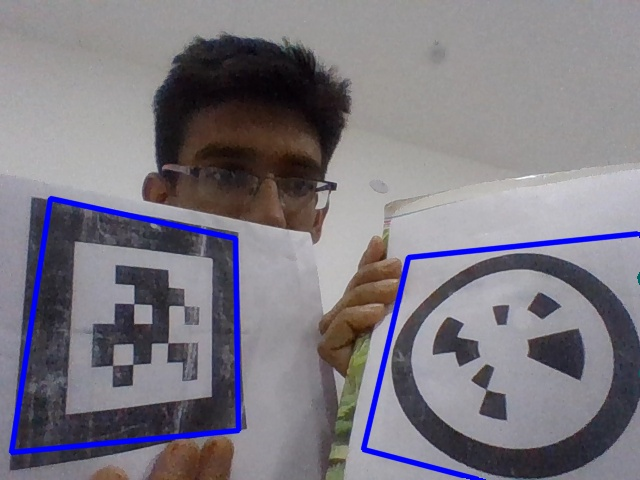
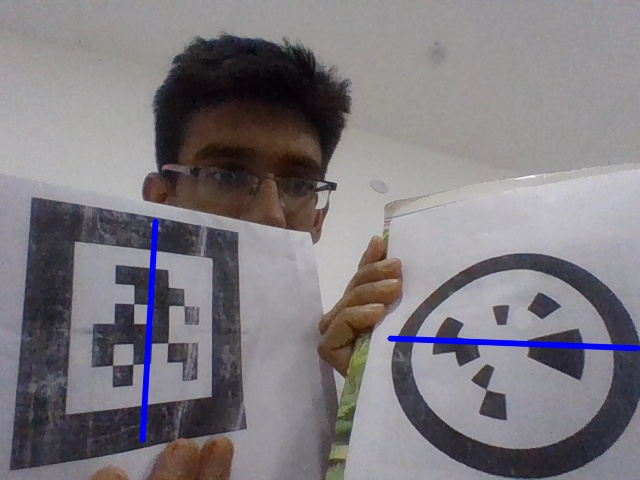
Printing 2 lines to play ping pong on each video frame

Changed region(s): [[0.0, 0.4062, 0.4062, 0.9688], [0.5625, 0.4688, 1.0, 1.0]]

diff --git a/augmented_reality/src/ar3.py b/augmented_reality/src/ar3.py
@@ -42,15 +42,15 @@ def main():
     # Load 3D model from OBJ file
     obj = OBJ(os.path.join(dir_name, 'models/fox.obj'), swapyz=True)
     # init video capture
-    # cap = cv2.VideoCapture(0)
-    frame = cv2.imread('test.jpg')
+    cap = cv2.VideoCapture(0)
+    #frame = cv2.imread('test.jpg')
     # h = np.eye(3)
-    if True:
-    #     # read the current frame
-    #     ret, frame = cap.read()
-    #     if not ret:
-    #         print("Unable to capture video")
-    #         return
+    while True:
+        # read the current frame
+        ret, frame = cap.read()
+        if not ret:
+            print("Unable to capture video")
+            return
         # find and draw the keypoints of the frame
         kp_frame, des_frame = orb.detectAndCompute(frame, None)
         # match frame descriptors with model descriptors
@@ -83,49 +83,32 @@ def main():
         # compute Homography
         other_homography, mask = cv2.findHomography(src_pts, dst_pts, cv2.RANSAC, 5.0)
 
+        if homography is not None and other_homography is not None and good:
         # Draw a rectangle and get centroid that marks the found models in the frame
-        h, w = model.shape
-        pts = np.float32([[0, 0], [0, h - 1], [w - 1, h - 1], [w - 1, 0]]).reshape(-1, 1, 2)
-        dst = cv2.perspectiveTransform(pts, homography)
-        # centroid = np.asarray([(w-1)/2.0, (h-1)/2.0]).reshape(-1,1,2)
-        # centroid1 = cv2.perspectiveTransform(centroid, homography)
-        frame = cv2.polylines(frame, [np.int32(dst)], True, 255, 3, cv2.LINE_AA)
-        h, w = other_model.shape
-        pts = np.float32([[0, 0], [0, h - 1], [w - 1, h - 1], [w - 1, 0]]).reshape(-1, 1, 2)
-        dst = cv2.perspectiveTransform(pts, other_homography)
-        # centroid = np.asarray([(w-1)/2.0, (h-1)/2.0]).reshape(-1,1,2)
-        # centroid2 = cv2.perspectiveTransform(centroid, other_homography)
-        frame = cv2.polylines(frame, [np.int32(dst)], True, 255, 3, cv2.LINE_AA)
+	        h, w = model.shape
+	        pts = np.float32([[(w-1)/2, 0], [(w-1)/2, h - 1]]).reshape(-1, 1, 2)
+	        dst = cv2.perspectiveTransform(pts, homography)							## first marker 2 points to define a ling
+	        frame = cv2.polylines(frame, [np.int32(dst)], True, 255, 3, cv2.LINE_AA)
+	        h, w = other_model.shape
+	        pts = np.float32([[(w-1)/2, 0], [(w-1)/2, h - 1]]).reshape(-1, 1, 2)
+	        dst = cv2.perspectiveTransform(pts, other_homography)					## second marker 2 points to define a ling
+	        frame = cv2.polylines(frame, [np.int32(dst)], True, 255, 3, cv2.LINE_AA)
+	    ########### ADD CODE FOR DISPLAYING BALL AND LOGIC OF GAME
+        #     # obtain 3D projection matrix from homography matrix and camera parameters
+        #     projection = projection_matrix(camera_parameters, homography)
+        #     other_projection = projection_matrix(camera_parameters, other_homography)
+        #     # project cube or model
+        #     render(frame, obj,projection, other_projection, model, other_model, False)
 
-        # project corners into frame
-        # dst = cv2.perspectiveTransform(centroid, homography)
-        # if good:
-        #     print(centroid1, centroid2)
-        # connect them with lines
-        # if args.rectangle:
-        #     frame = cv2.polylines(frame, [np.int32(dst)], True, 255, 3, cv2.LINE_AA)
-        # if a valid homography matrix was found render cube on model plane
-        if homography is not None and good:
-            # try:
-            # print(homography)
-            # obtain 3D projection matrix from homography matrix and camera parameters
-            projection = projection_matrix(camera_parameters, homography)
-            other_projection = projection_matrix(camera_parameters, other_homography)
-            # project cube or model
-            render(frame, obj,projection, other_projection, model, other_model, False)
-            # except:
-            #     pass
-        # frame = render(frame, obj,projection, other_projection, model, other_model, 100, False)
-        # cv2.imwrite('ans.jpg',frame)
         # draw first 10 matches.
         if args.matches and good:
             frame = cv2.drawMatches(model, kp_model, frame, kp_frame, matches[:10], 0, flags=2)
         # show result
-        # cv2.imshow('frame', frame)
-        # if cv2.waitKey(1) & 0xFF == ord('q'):
-        #     break
+        cv2.imshow('frame', frame)
+        if cv2.waitKey(1) & 0xFF == ord('q'):
+            break
 
-    # cap.release()
+    cap.release()
     cv2.destroyAllWindows()
     return 0
 
